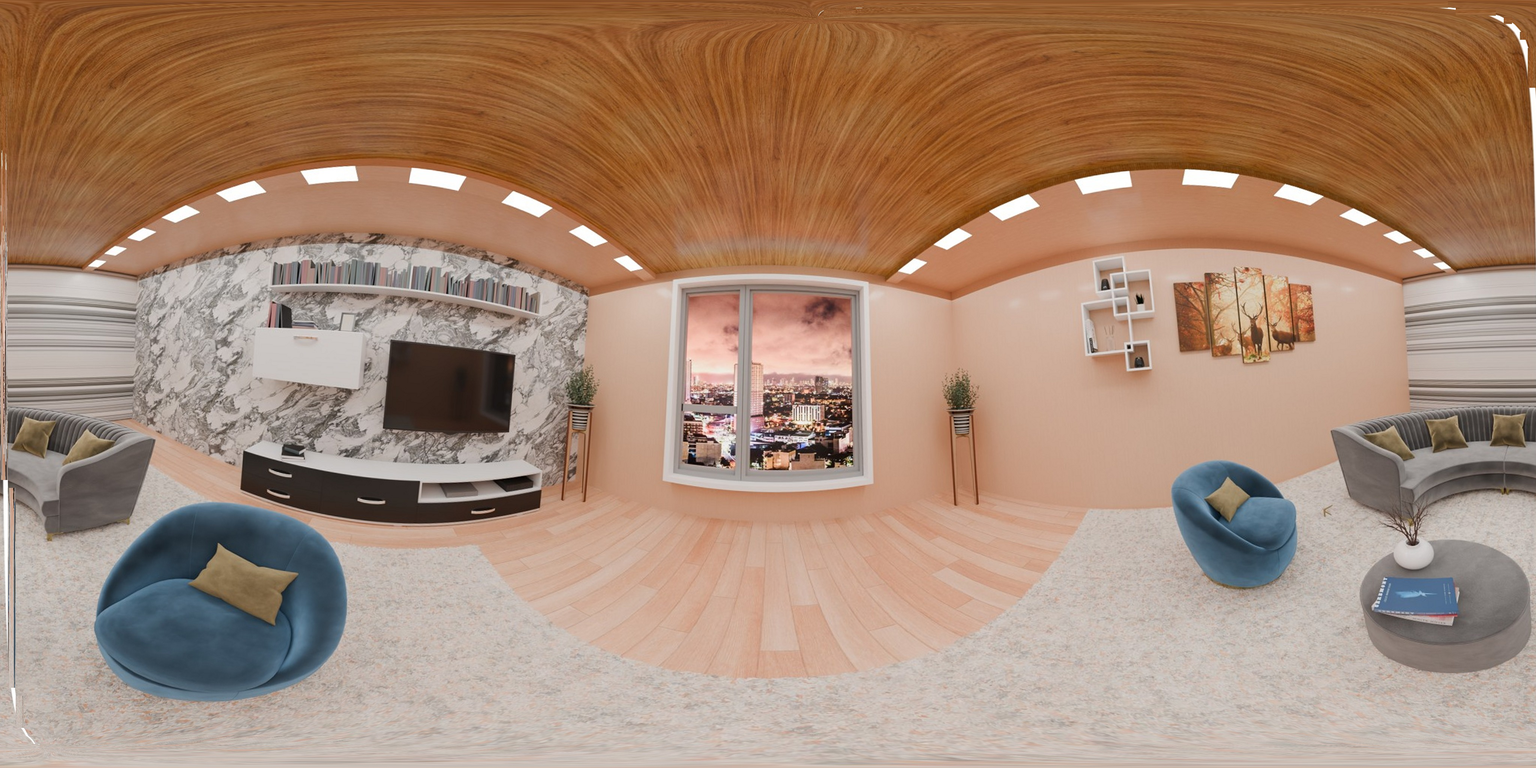
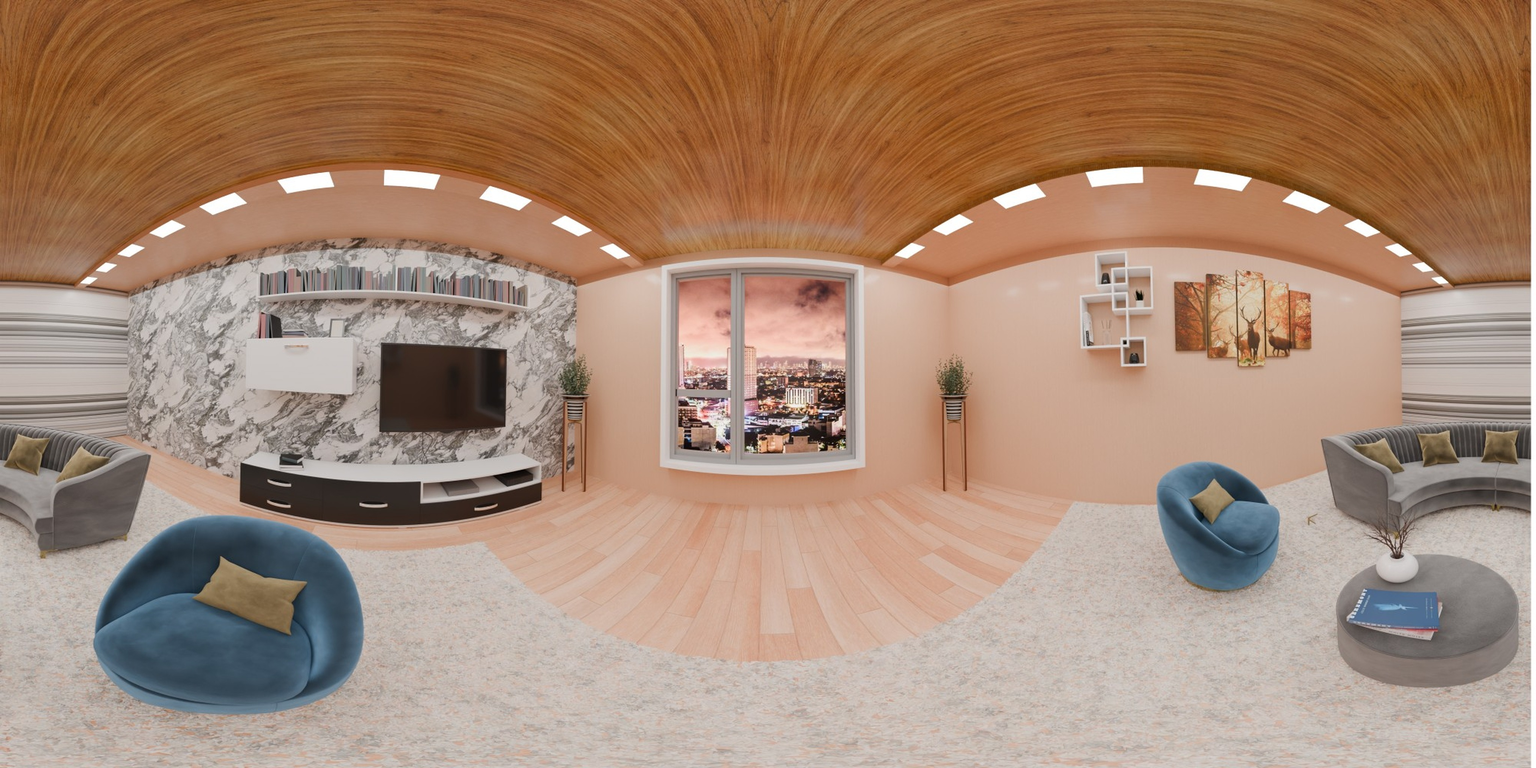
Stop moving the room at all - move the blind to the window instead
The room looked tilted, and it genuinely was. Aiming it at the blind needed 12
degrees of pitch on wooden, and looking up at a room by 12 degrees makes its
verticals converge, exactly as photographing a building from below does. That
is not a bug in the rotation - the rotation was correct - it is what changing
the viewpoint does. Measured on a synthetic test panorama: the wall/ceiling
join came out sloping 1.7 degrees.

The premise was wrong. The blind was treated as immovable and the room as the
thing to adjust, when it is the other way round: the blind is an object in a
scene and can be put anywhere, while the room is a photograph of a viewpoint
and every adjustment to it is a lie about where the camera was.

So the room is now left exactly as it left the client's renderer - resized to
4096x2048 and nothing else. No rotation, no translation, no scaling. The build
reads the window's own angles off the supplied image and the page aims the
blind at them: 8.62 degrees above the horizon and 3.24 off dead ahead for
wooden, 28.21 and -1.89 for vertical.

Measured after: 99% of the window's width covered, gaps of 2 px at the top and
11 and 6 at the sides against a 641 px window.

A by-product worth noting: sphere_rotate.py is no longer used in the build. It
stays because the shortest-arc versus yaw-then-pitch problem it documents is
real and worth not rediscovering - the shortest arc rolled the room 0.81
degrees where yaw-then-pitch rolls it 0.00.

diff --git a/curtain_roll/www/vertical-premium.html b/curtain_roll/www/vertical-premium.html
@@ -3098,8 +3098,8 @@ $(document).ready(function () {
      value it did not put there and re-applies the factor on top, which keeps
      that behaviour intact. */
   var BLIND_SCALE = [0.8315, 1.0285];          // [width, height]
-  var WINDOW_TOP_DEG = 24.264;        // window top, above the horizon
-  var WINDOW_CX_DEG = 0.072;          // window centre, off dead ahead
+  var WINDOW_TOP_DEG = 28.2115;        // window top, above the horizon
+  var WINDOW_CX_DEG = -1.89;          // window centre, off dead ahead
 
   /* Set the scale from the bundle's own base every time, never from our own
      previous output.

diff --git a/curtain_roll/www/wooden-premium.html b/curtain_roll/www/wooden-premium.html
@@ -2493,8 +2493,8 @@ $(document).ready(function () {
      value it did not put there and re-applies the factor on top, which keeps
      that behaviour intact. */
   var BLIND_SCALE = [0.7033, 0.6161];          // [width, height]
-  var WINDOW_TOP_DEG = 21.006;        // window top, above the horizon
-  var WINDOW_CX_DEG = 0.18;          // window centre, off dead ahead
+  var WINDOW_TOP_DEG = 8.6161;        // window top, above the horizon
+  var WINDOW_CX_DEG = 3.24;          // window centre, off dead ahead
 
   /* Set the scale from the bundle's own base every time, never from our own
      previous output.
